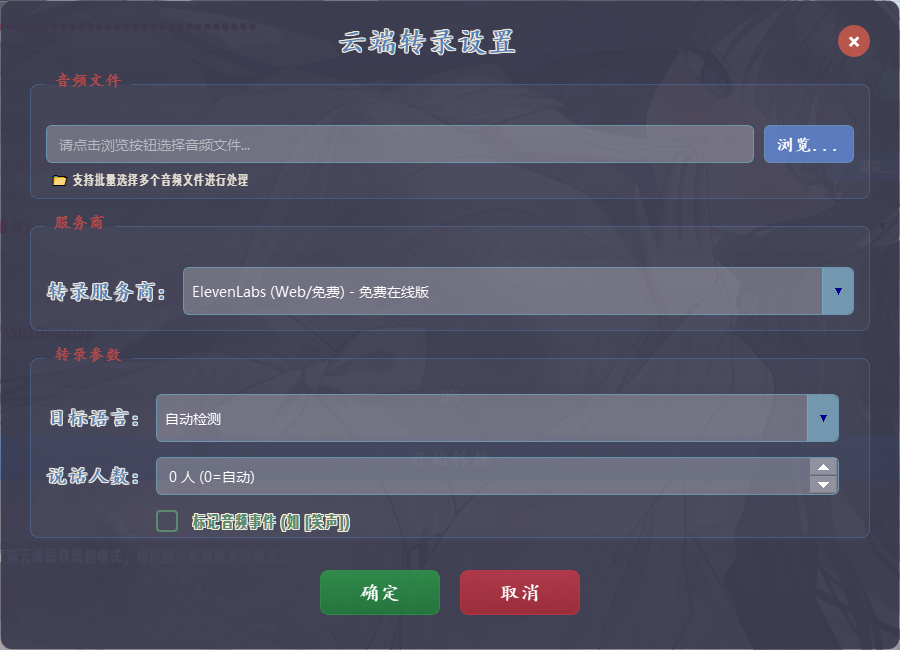
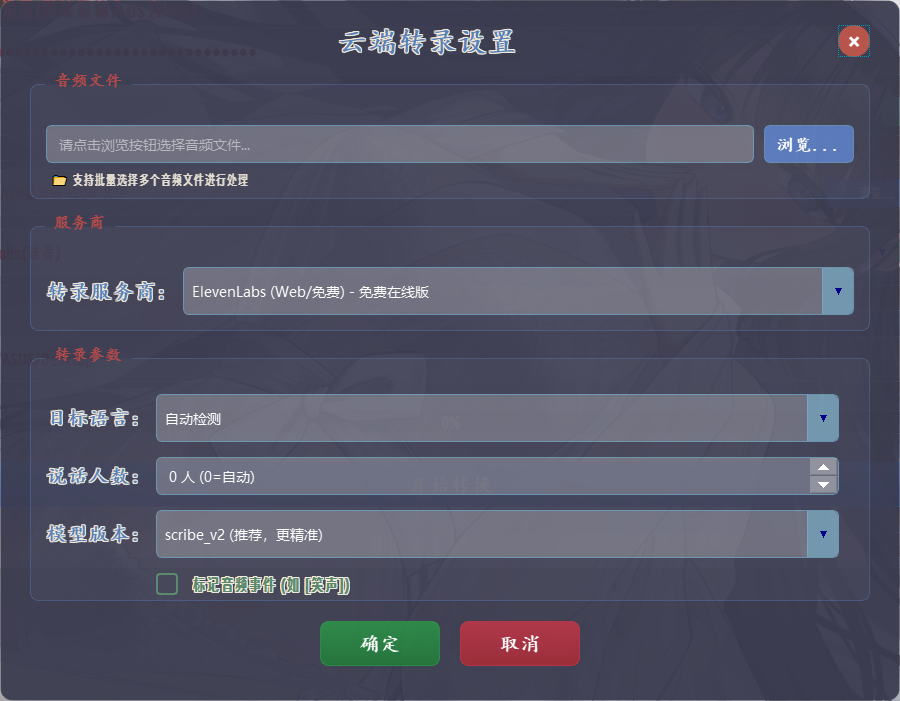
新增转录模型切换&修复LLM配置逻辑

diff --git a/docs/USAGE.md b/docs/USAGE.md
@@ -528,12 +528,22 @@ A:推荐使用0.2：
   - **输入框**: 显示当前选择的音视频文件路径（只读）。
   - **浏览...**: 点击打开文件对话框，选择您要转录的本地音频/视频文件 (支持 `.mp3`, `.wav`, `.flac`, `.m4a`, `.ogg`, `.opus`, `.aac`, `.webm`, `.mp4`, `.mov` 等)。**现在支持多选文件进行批量处理**。
   - **温馨提示**: 使用免费版上传文件时，**请控制文件大小小于300MB**（约为2个多小时的mp3的大小），避免超限导致的转录失败。如果是视频，强烈建议你先手动转换成MP3，然后再处理。
+  
 - **转录语言**:
-- 下拉框选择转录的目标语言。选项包括"自动检测"、"日语"、"中文"、"英文"、"韩文"。默认为"自动检测"。
+
+  下拉框选择转录的目标语言。选项包括"自动检测"、"日语"、"中文"、"英文"、"韩文"。默认为"自动检测"。
+
 - **说话人数**:
-- 下拉框选择音频中的说话人数。选项包括"自动检测" (API将尝试自动识别) 和 1 至 32 人。默认为"自动检测"。
+
+  下拉框选择音频中的说话人数。选项包括"自动检测" (API将尝试自动识别) 和 1 至 32 人。默认为"自动检测"。
+
+- **模型版本：**
+
+  下拉框选择转录的模型。选项包括“scribe_v1”和“scribe_v2”。默认为“scribe_v2”。
+
 - **生成非语音声音事件**:
-- 复选框，勾选后，STT服务会尝试识别并标记非语音的声音事件（如掌声、笑声等）。免费版默认为勾选，付费版默认不勾选。
+
+  复选框，勾选后，STT服务会尝试识别并标记非语音的声音事件（如掌声、笑声等）。免费版默认为勾选，付费版默认不勾选。
 
 ![Heal-Jimaku 付费ElevenLabs弹窗截图](https://raw.githubusercontent.com/fuxiaomoke/heal-jimaku/main/assets/elevenlabs_vip_transcription_dialog.png)
 

diff --git a/tools/README.md b/tools/README.md
@@ -15,14 +15,20 @@
 ## 安装依赖
 
 ```bash
-# 安装所有依赖
+# 安装命令行工具所需的所有依赖（包括GUI程序的基础依赖）
+pip install -r requirements-tools.txt
+
+# 或者分步安装：
+# 1. 先安装基础依赖
 pip install -r requirements.txt
 
-# 或单独安装命令行工具所需的依赖
-pip install av requests mutagen langdetect
+# 2. 再安装命令行工具专用依赖
+pip install av
 ```
 
 **重要**: `av` 库是 FFmpeg 的 Python 绑定，用于视频音频处理。如果安装失败，请确保系统已安装 FFmpeg。
+
+**注意**: GUI程序（治幕.exe）**不需要**安装 `av` 库，该库仅用于命令行工具。
 
 ## 使用方法
 

diff --git a/README.md b/README.md
@@ -123,7 +123,11 @@
 3. **安装依赖**:
 
    ```bash
+   # 安装GUI程序依赖
    pip install -r requirements.txt
+   
+   # 如果需要使用命令行工具（tools目录），额外安装：
+   pip install -r requirements-tools.txt
    ```
 
    主要依赖包括：
@@ -134,6 +138,9 @@
    - `langdetect`
    - `gradio_client` (用于处理PDF文档OCR识别)
    - `python-docx` (用于处理Word文档)
+   
+   命令行工具额外依赖：
+   - `av` (PyAV - FFmpeg的Python绑定，用于视频音频提取，仅命令行工具需要)
 
 4. **运行应用**:
 
